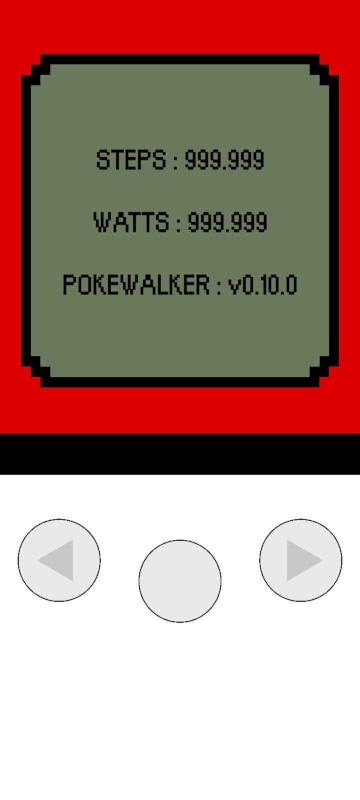
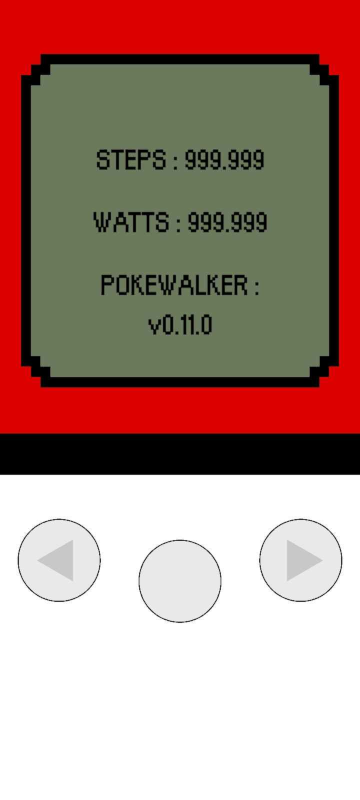
F6X POKEWALKER 0.11.0
Add Save Game Feature
Update ButtonsController.cs
Update CurrencysController.cs

Changed region(s): [[0.1528, 0.3438, 0.825, 0.4375]]

diff --git a/F6X POKEWALKER/Assets/Scripts/Project/CurrencysController.cs b/F6X POKEWALKER/Assets/Scripts/Project/CurrencysController.cs
@@ -15,9 +15,9 @@ public class CurrencysController : MonoBehaviour
 
     private void InitializeVariables()
     {
-        steps = 0;
-        watts = 0;
-        stepsForWatt = 10;
+        steps = PlayerPrefs.GetInt("STEPS", 0);
+        watts = PlayerPrefs.GetInt("WATTS", 0);
+        stepsForWatt = 5;
         untilNextWatt = stepsForWatt;
     }
 
@@ -30,7 +30,11 @@ public class CurrencysController : MonoBehaviour
     private void AddStep()
     {
         if (steps < 999999)
+        {
             steps++;
+            PlayerPrefs.SetInt("STEPS", steps);
+            PlayerPrefs.Save();
+        }
     }
 
     private void AddProgressWatt()
@@ -41,6 +45,8 @@ public class CurrencysController : MonoBehaviour
         {
             untilNextWatt = stepsForWatt;
             watts++;
+            PlayerPrefs.SetInt("WATTS", watts);
+            PlayerPrefs.Save();
         }
     }
 
@@ -61,11 +67,15 @@ public class CurrencysController : MonoBehaviour
     public void SetSteps(int newSteps)
     {
         steps = newSteps;
+        PlayerPrefs.SetInt("STEPS", steps);
+        PlayerPrefs.Save();
     }
 
     public void SetWatts(int newWatts)
     {
         watts = newWatts;
+        PlayerPrefs.SetInt("WATTS", watts);
+        PlayerPrefs.Save();
     }
 
     public int GetSteps()

diff --git a/F6X POKEWALKER/Assets/Scripts/UI/ButtonsController.cs b/F6X POKEWALKER/Assets/Scripts/UI/ButtonsController.cs
@@ -3,7 +3,6 @@ using UnityEngine;
 public class ButtonsController : MonoBehaviour
 {
     private ScreenController screenController;
-    private CurrencysController currencysController;
     private string lastButton;
     private IScreen[] screens;
 
@@ -16,7 +15,6 @@ public class ButtonsController : MonoBehaviour
     {
         InitializeScreens();
         screenController = GameObject.FindGameObjectWithTag("ScreenController").GetComponent<ScreenController>();
-        currencysController = GameObject.FindGameObjectWithTag("CurrencysController").GetComponent<CurrencysController>();
     }
 
     private void InitializeScreens()

diff --git a/README.md b/README.md
@@ -21,7 +21,7 @@
 ---
 
 - **STACK :**
-  - **F6X Pokewalker** : `0.10.0`
+  - **F6X Pokewalker** : `0.11.0`
   - **Android** : `8.0`
   - **Unity** : `2022.3.20f1`
   - **Console Log System** : `1.3.0`
